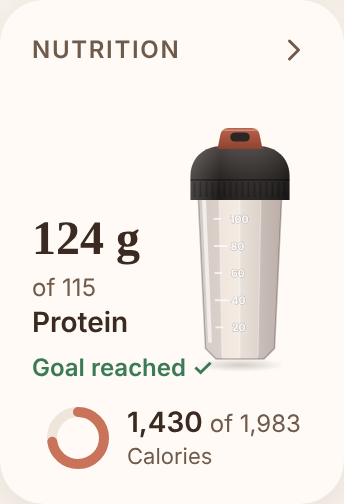
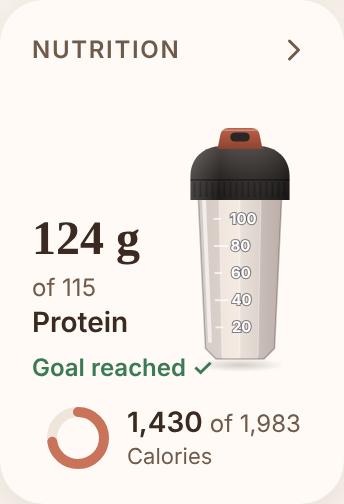
Workflow 16: review fixes (quiet first look, no goal replay on lowered target, readable scale), build notes
Claude-Session: https://claude.ai/code/session_01E8m8svjFKtLT3zDarJmxVH

Changed region(s): [[0.6686, 0.4762, 0.7267, 0.6845], [0.6686, 0.4167, 0.7558, 0.4464]]

diff --git a/src/lib/shaker.test.ts b/src/lib/shaker.test.ts
@@ -6,7 +6,9 @@ const mem = (lastTotal: number, goalShown = false, date = D): ShakerMemory => ({
 
 describe('protein shaker', () => {
   it.each([
-    ['first look today with protein logged: shake up from empty', null, 84, { from: 0, level: 84 / 114, play: 'shake', reached: false }],
+    ['first look today with protein logged: level set quietly', null, 84, { from: 84 / 114, level: 84 / 114, play: 'none', reached: false }],
+    ['first look today, goal already reached: shown as reached, no animation', null, 120, { from: 0, level: 0, play: 'none', reached: true }],
+    ['target lowered below the total: reached, no animation', mem(100), 100, { from: 100 / 90 > 1 ? 1 : 100 / 90, level: 0, play: 'none', reached: true }],
     ['nothing new since last time: no animation', mem(84), 84, { from: 84 / 114, level: 84 / 114, play: 'none', reached: false }],
     ['protein added: shake from the old level', mem(64), 84, { from: 64 / 114, level: 84 / 114, play: 'shake', reached: false }],
     ['food deleted: level just drops, no shake', mem(84), 60, { from: 84 / 114, level: 60 / 114, play: 'none', reached: false }],
@@ -15,9 +17,9 @@ describe('protein shaker', () => {
     ['after the goal: stays empty and reached, no replay', mem(114, true), 120, { from: 0, level: 0, play: 'none', reached: true }],
     ['food deleted after the goal: still reached today', mem(114, true), 90, { from: 0, level: 0, play: 'none', reached: true }],
     ['a new day starts empty', mem(114, true, '2026-11-27'), 0, { from: 0, level: 0, play: 'none', reached: false }],
-    ['a new day with protein already logged', mem(114, true, '2026-11-27'), 30, { from: 0, level: 30 / 114, play: 'shake', reached: false }],
-  ] as const)('%s', (_, memory, total, want) => {
-    const s = shakerState(D, total, 114, memory);
+    ['a new day with protein already logged: quiet', mem(114, true, '2026-11-27'), 30, { from: 30 / 114, level: 30 / 114, play: 'none', reached: false }],
+  ] as const)('%s', (name, memory, total, want) => {
+    const s = shakerState(D, total, name.startsWith('target lowered') ? 90 : 114, memory);
     expect({ from: s.from, level: s.level, play: s.play, reached: s.reached }).toEqual(want);
     expect(s.next).toEqual({ date: D, lastTotal: total, goalShown: want.reached });
   });

diff --git a/src/lib/shaker.ts b/src/lib/shaker.ts
@@ -21,11 +21,18 @@ export interface ShakerState {
 const fill = (total: number, target: number) => (target > 0 ? Math.min(1, Math.max(0, total / target)) : 0);
 
 export function shakerState(today: string, total: number, target: number, memory: ShakerMemory | null): ShakerState {
-  const m: ShakerMemory = memory && memory.date === today ? memory : { date: today, lastTotal: 0, goalShown: false }; // a new day starts empty
+  const atGoal = target > 0 && total >= target;
+  // First look of the day (or ever): the level is set quietly, no animation. If the goal was already reached, it shows as reached.
+  if (!memory || memory.date !== today) {
+    return { from: atGoal ? 0 : fill(total, target), level: atGoal ? 0 : fill(total, target), play: 'none', reached: atGoal, next: { date: today, lastTotal: total, goalShown: atGoal } };
+  }
+  const m = memory;
   if (m.goalShown) return { from: 0, level: 0, play: 'none', reached: true, next: { ...m, lastTotal: total } };
   const from = fill(m.lastTotal, target);
-  if (target > 0 && total >= target) return { from, level: 0, play: 'goal', reached: true, next: { date: today, lastTotal: total, goalShown: true } };
-  return { from, level: fill(total, target), play: total > m.lastTotal ? 'shake' : 'none', reached: false, next: { date: today, lastTotal: total, goalShown: false } };
+  const added = total > m.lastTotal;
+  // The goal moment plays only when added protein reaches the goal (a lowered target just marks it reached).
+  if (atGoal) return { from, level: 0, play: added ? 'goal' : 'none', reached: true, next: { date: today, lastTotal: total, goalShown: true } };
+  return { from, level: fill(total, target), play: added ? 'shake' : 'none', reached: false, next: { date: today, lastTotal: total, goalShown: false } };
 }
 
 export function loadShakerMemory(): ShakerMemory | null {

diff --git a/src/db/db.ts b/src/db/db.ts
@@ -2,6 +2,7 @@ import Dexie, { type EntityTable } from 'dexie';
 import type { Activity, Sex, Targets } from '../lib/targets';
 import type { UnitSystem } from '../lib/units';
 import type { DrugId } from '../lib/drugs';
+import { SHAKER_KEY } from '../lib/shaker';
 
 /** The single profile record. All measurements metric. */
 export interface Profile {
@@ -291,7 +292,7 @@ export const UI_KEYS = ['steady.helpShownOn', 'steady.alertsHidden', 'steady.ale
 export async function resetAllData(): Promise<void> {
   await db.transaction('rw', db.tables, () => Promise.all(db.tables.map((t) => t.clear())));
   // UI_KEYS, plus the protein shaker's memory (not backed up, but Reset clears it: workflow 16).
-  for (const k of [...UI_KEYS, 'steady.shaker']) {
+  for (const k of [...UI_KEYS, SHAKER_KEY]) {
     try { localStorage.removeItem(k); } catch { /* storage blocked: nothing saved there */ }
   }
 }

diff --git a/src/components/ProteinShaker.tsx b/src/components/ProteinShaker.tsx
@@ -63,7 +63,7 @@ export function ShakerDrawing({ pose, goal, width = 72 }: { pose: ShakerPose; go
           return (
             <g key={g}>
               <line x1={x} x2={x + (g % 40 ? 5 : 9)} y1={y} y2={y} stroke="#fff" strokeWidth="1.2" opacity=".75" />
-              <text x={x + 11} y={y + 2.6} fontSize="7" fontWeight="700" fill="#fff" opacity=".85" stroke="#2a2433" strokeOpacity=".35" strokeWidth=".6" paintOrder="stroke">{g}</text>
+              <text x={x + 11} y={y + 3.4} fontSize="10" fontWeight="700" fill="#fff" stroke="#2a2433" strokeOpacity=".55" strokeWidth="1.4" paintOrder="stroke">{g}</text>
             </g>
           );
         })}

diff --git a/src/components/NutritionRings.tsx b/src/components/NutritionRings.tsx
@@ -102,7 +102,7 @@ export function CompactNutritionRings({ totals, targets, today }: { totals: Tota
     handled.current = key;
     const s = shakerState(today, protein, targets.proteinG, loadShakerMemory());
     saveShakerMemory(s.next);
-    setShaker(s);
+    setShaker((cur) => (cur.play === s.play && cur.from === s.from && cur.level === s.level && cur.reached === s.reached ? cur : s));
   }, [key, today, protein, targets.proteinG]);
   // "Goal reached" appears once the goal moment has finished (straight away with Reduce Motion or after it played).
   const reachedShown = shaker.reached && (shaker.play !== 'goal' || settledKey === key);

diff --git a/docs/workflows/16-protein-shaker.md b/docs/workflows/16-protein-shaker.md
@@ -1,5 +1,5 @@
 # Workflow 16 — Protein shaker on Home
-Status: Approved
+Status: Built
 Milestone: Post-plan add-on (not in PLAN.md §5). Builds on workflow 15 (not yet merged). Uses only food totals already stored.
 
 ## Owner answers (2026-11-28)
@@ -113,3 +113,24 @@ You need to decide:
 
 ## Approval
 - [x] Approved by owner — 2026-11-28 (answers above; exact text approved; build after workflow 15 is merged)
+
+## Build notes (2026-11-28)
+- **What was built:**
+  - `src/lib/shaker.ts` holds the pure state, plus memory under `steady.shaker`. It is not backed up, and Reset clears it.
+  - `src/components/ProteinShaker.tsx` is the drawing ported from the mockup, with the animation driver.
+  - The Home tile now shows the shaker, the protein text, "Goal reached ✓" and the calories line.
+  - The milestone pop-up marks the page while it shows, so the goal moment waits for it to close.
+- **Code review fixes:**
+  - The first look of a day (or ever) sets the level quietly, as planned, and a goal already reached shows as reached without the animation.
+  - Lowering the target below today's total marks the goal reached without the animation.
+  - The scale numbers are larger with a darker edge, so they are readable at tile size.
+  - Reset uses the shared key name.
+  - Equal states don't re-render.
+- **Known, accepted:**
+  - The goal flag is saved when the sequence starts. If the app is closed during the 4 seconds, the next visit shows the empty bottle with "Goal reached ✓".
+  - A pop-up opening during the sequence could overlap it (rare).
+  - Each animation frame redraws the SVG. This is fine for a few seconds; watch for stutter on the real phone.
+- **Checks:**
+  - 381 tests pass, and the build passes.
+  - The mocked iPhone pass was fine: shake on add, the goal sequence ending empty with "Goal reached ✓", Reduce Motion going straight to the end state, and no errors or CSP violations.
+  - Screenshots: `docs/screenshots/16-0-home.png`, `16-2-goal.png` and `16-3-reduce-goal.png`. The mockup GIFs show the motion.
